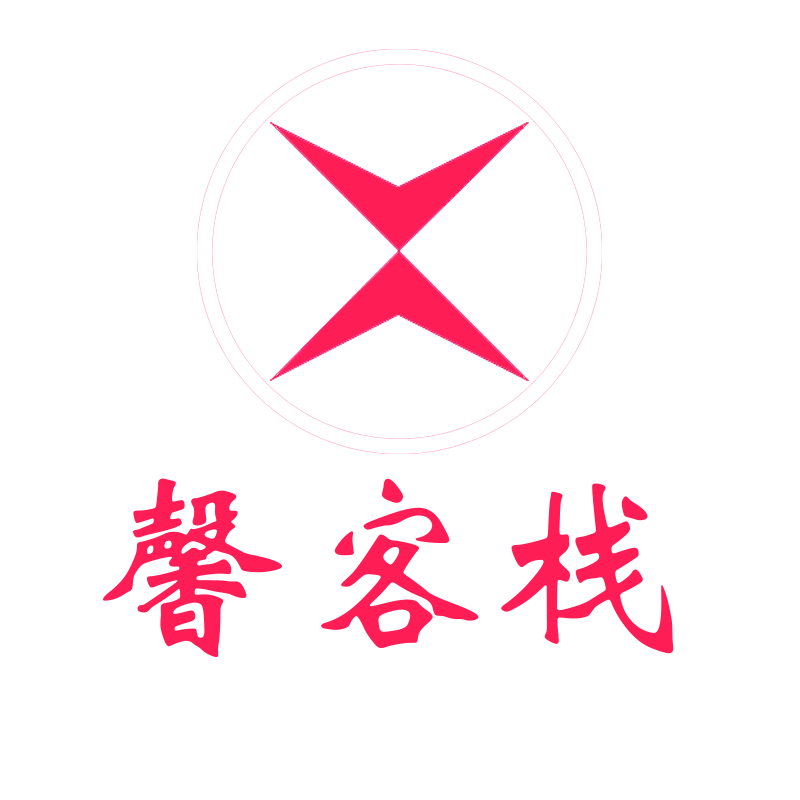
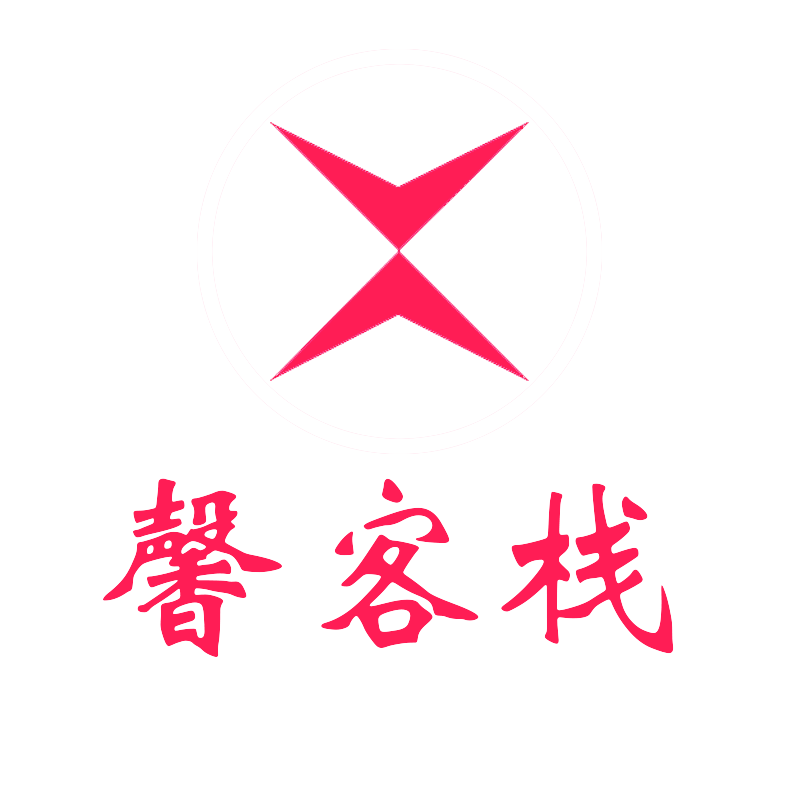
修复一张图片，更新页更新到0401了

Changed region(s): [[0.3438, 0.4375, 0.375, 0.4688], [0.3438, 0.1562, 0.375, 0.1875], [0.25, 0.7188, 0.2812, 0.75]]

diff --git a/update.html b/update.html
@@ -59,7 +59,8 @@
     
     <div class="update">
         <div class="update-box">
-            <p>2019-03-29，馨客栈全线更新logo，还有导航页的破冰入口已经关闭，但是还是会一直更新的，只是入口取消了而已，栈主周知</p>
+            <p>2019-04-01，馨客栈赞助页 <a href="xininn.html" target="_blank">馨客栈赞助</a> 分享页和破冰页也有更新</p>
+            <p>2019-03-29，馨客栈全线更新logo，还有导航页的破冰入口已经关闭，但是还是会一直更新的，只是入口取消了而已，栈友周知</p>
             <p>2019-03-28，馨客栈logo修改，主页和导航页更改新的馨客栈logo图，其他页面依旧用老的馨客栈logo</p>
             <p>2019-03-20，标签持续更新，导航页的客栈消息即将改版，请栈友知悉</p>
             <p>2019-03-19，破冰大量更新，导航小更新，分享页例行更新</p>
